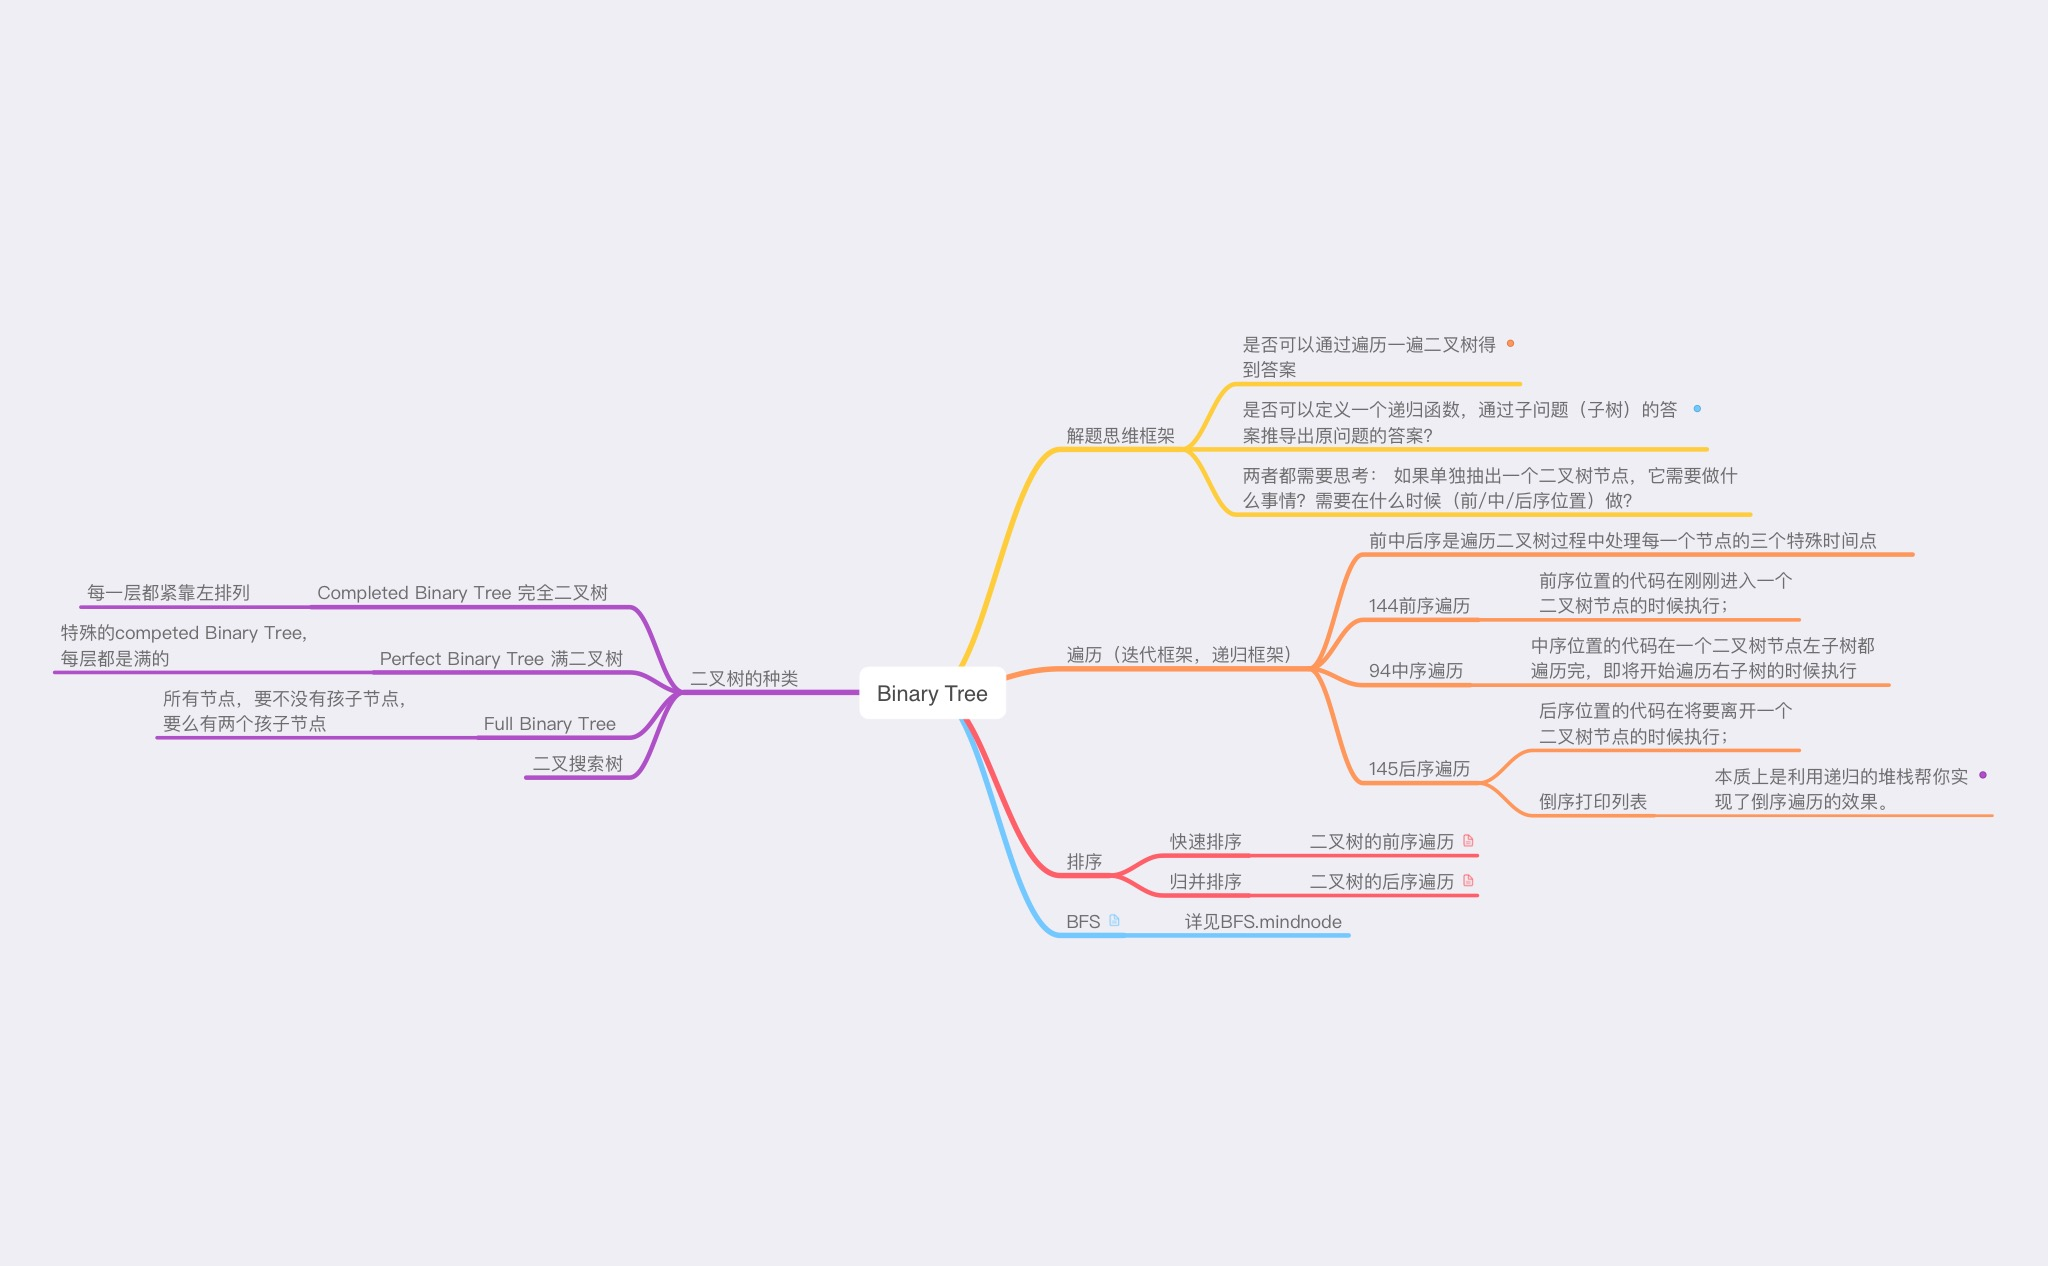
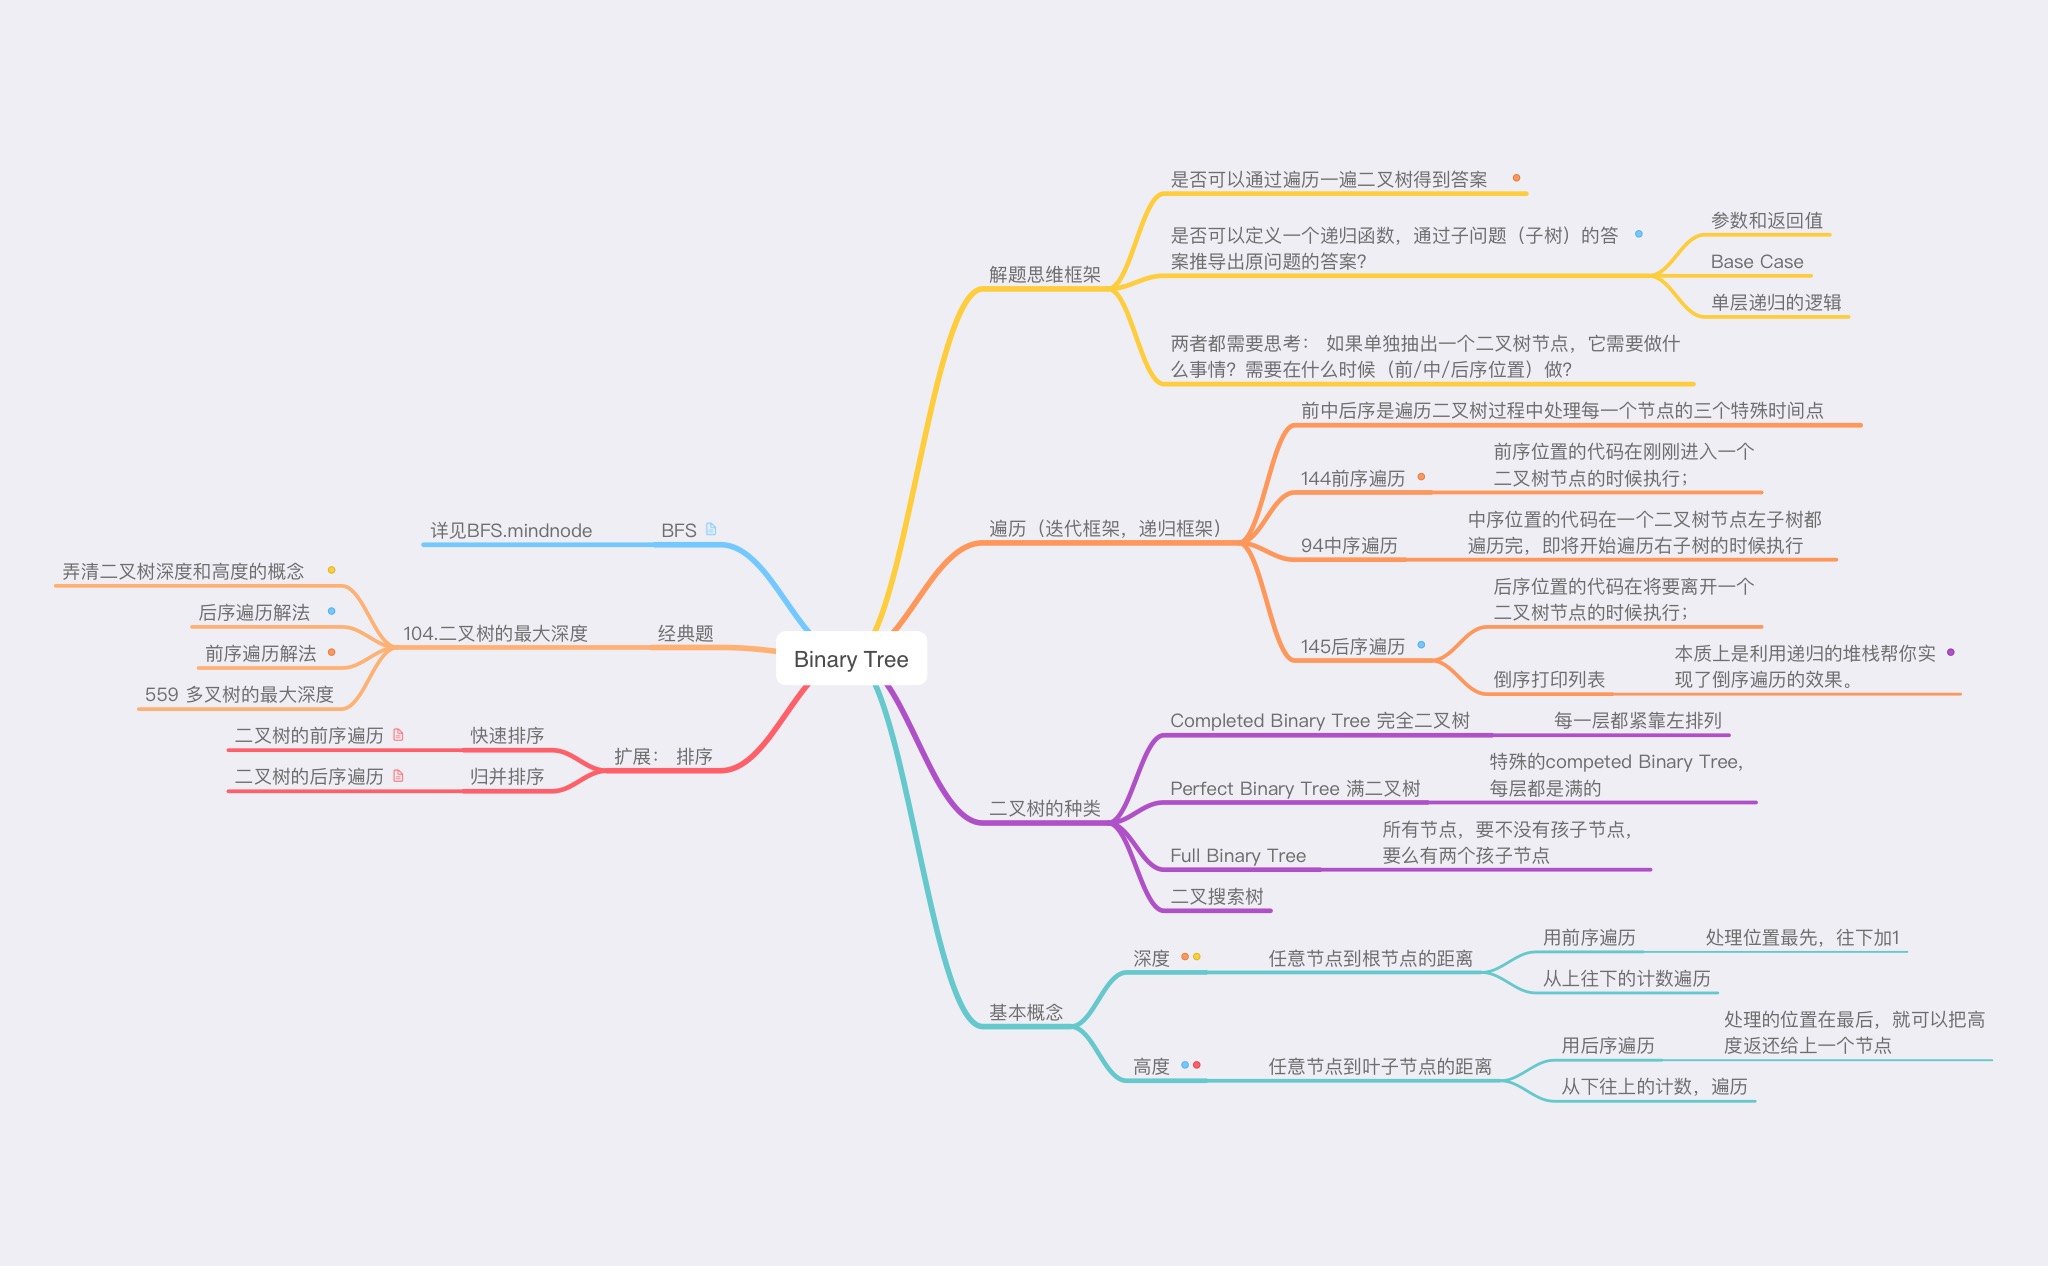
tree: height and depth

diff --git a/Questions/Binary Tree/[104] Maximum Depth of Binary Tree.md b/Questions/Binary Tree/[104] Maximum Depth of Binary Tree.md
@@ -1,0 +1,111 @@
+# [Maximum Depth of Binary Tree - LeetCode](https://leetcode.com/problems/maximum-depth-of-binary-tree/description/)
+## Tag
+PreOrder, PostOrder, BFS, BinaryTree, iteration, recursion
+## 审题（关键词） 
+Binary Tree, maximum depth
+
+## 初始思路  
+遍历二叉树，且返回最大路径，典型二叉树遍历题（不需要访问）
+套用二叉树遍历框架：
+1. 后序遍历解法：
+	1. 递归思路
+	2. 求高度（任意节点到叶子节点的距离）采用从下往上的计数，后序遍历
+	4. 什么时候返回，要知道depth，它的子树都得访问，
+	5. 递归
+	6. 后序位置：计算最大值
+	7. 需要额外的参数吗？不需要，使用递归的时候没有额外的对子问题的影响。
+2. 前序遍历解法：
+	1. 遍历思路
+	2. 求深度（任意节点到根节点的距离）采用从上往下的计数遍历， 前序遍历
+	3. 前序位置： 每个节点计算当前深度，需要记录这个高度并给子节点，且需要回溯维护。
+	4. 前序位置：当前节点更新最大值。
+	5. 子节点计算深度
+
+扩展使用bfs解法。
+
+
+## 考点  
+学习二叉树的两种解题思路, 分清树的高度和深度的不同。
+
+## 解法  
+> 遍历思路，一层层往下遍历，（前序遍历求深度）用depth维护高度，res维护答案。注意要回溯高度
+```java
+class Solution {
+    /**
+      * 递归法(求深度法)
+    */
+    //定义最大深度, 使用全局变量记录答案。
+    int maxnum = 0;
+
+    public int maxDepth(TreeNode root) {
+        // 前序遍历解法, 所有节点到根节点的距离，需要额外参数记录当前距离
+        ans(root,0);
+        return maxnum;
+    }
+    
+    //递归求解最大深度
+    void ans(TreeNode tr,int tmp){
+        // base case
+        if(tr==null) return;
+        // 处理：前序位置
+        tmp++;
+        maxnum = maxnum<tmp?tmp:maxnum;
+        // 访问
+        ans(tr.left,tmp);
+        ans(tr.right,tmp);
+        // 回溯：
+        tmp--;
+    }
+      
+}
+```
+> 递归思路，问题拆解思路：先获知左右的节点深度，再跟新自己（后序遍历求高度）
+
+```java
+class Solution {
+    public int maxDepth(TreeNode root) {
+        // base case:
+        if (root == null) {
+            return 0;
+        }
+
+        // 访问
+        int left = maxDepth(root.left);
+        int right = maxDepth(root.right);
+        // 处理：后序位置
+        return Math.max(left, right) + 1;
+    }
+}
+```
+> BFS, 一层层遍历，记录层数。
+
+```java
+class Solution {
+    public int maxDepth(TreeNode root) {
+        // BFS Solution: get the depth
+        // use Queue
+        Queue<TreeNode> queue = new LinkedList<>();
+        if (root != null) {
+            queue.offer(root);
+        }
+        int level = 0;
+        while (!queue.isEmpty()) {
+            int size = queue.size();  
+            // iterate each level
+            for (int i = 0; i < size; i++) {
+                TreeNode curr = queue.poll();
+                // 访问：
+                if (curr.left != null) queue.add(curr.left);
+                if (curr.right != null) queue.add(curr.right);
+            }
+            // 处理：
+            level++;
+
+        }
+
+        return level;
+
+    }
+}
+```
+

diff --git a/Questions/Binary Tree/[559] Maximum Depth of N-ary Tree.md b/Questions/Binary Tree/[559] Maximum Depth of N-ary Tree.md
@@ -1,0 +1,98 @@
+# [Maximum Depth of N-ary Tree - LeetCode](https://leetcode.com/problems/maximum-depth-of-n-ary-tree/description/) 
+## Tag
+PreOrder, PostOrder, BFS, BinaryTree, iteration, recursion
+## 审题（关键词） 
+N-ary Tree, maximum depth
+## 初始思路  
+同104题一致， 仅仅是访问形式的不同。
+两个考点：  
+详见： [104 Maximum Depth of Binary Tree](./%5B104%5D%20Maximum%20Depth%20of%20Binary%20Tree.md)
+1. 遍历思路：求深度
+2. 递归思路：求高度  
+
+## 考点  
+学习二叉树的两种解题思路, 分清树的高度和深度的不同。
+
+## 解法  
+ > 遍历思路，一层层往下遍历，（前序遍历求深度）用depth维护高度，res维护答案。注意要回溯高度
+```java
+/*
+// Definition for a Node.
+class Node {
+    public int val;
+    public List<Node> children;
+
+    public Node() {}
+
+    public Node(int _val) {
+        val = _val;
+    }
+
+    public Node(int _val, List<Node> _children) {
+        val = _val;
+        children = _children;
+    }
+};
+*/
+
+class Solution {
+    /**
+    遍历思路， 求深度，使用前序遍历
+     */
+    // global value to record the maximum depth
+    int max = 0;
+
+    // Do we need extra params? Yes, need to record depth of each node
+    public int maxDepth(Node root) {
+        traverse(root, 0);
+        return max;
+    }
+
+    void traverse(Node node, int depth) {
+        if (node == null) {
+            return;
+        }
+        // 处理：高度加1，比较最大值
+        depth++;
+        max = Math.max(depth, max);
+
+        // 访问：处理每一个子节点。
+        for (int i = 0; i < node.children.size(); i++) {
+            traverse(node.children.get(i), depth);
+        }
+
+        // 后序位置回溯，维护高度。
+        depth--;
+    }
+}
+```
+> 递归思路，问题拆解思路：先获知所有子节点深度，再跟新自己（后序遍历求高度）
+```java
+
+class Solution {
+    /**
+    递归思路：求高度，使用后序遍历
+     */
+    // global value to record the maximum depth
+    int max = 0;
+
+    // Do we need extra params? No, will update and process in the postOrder position, return the value
+    public int maxDepth(Node root) {
+        // bc: 
+        if (root == null) {
+            return 0;
+        }
+        int subMax = 0;
+
+        // recursion: 
+        for (int i = 0; i < root.children.size(); i++) {
+            subMax = Math.max(subMax, maxDepth(root.children.get(i)));
+        }
+
+        // 处理：return the height of current node
+        return subMax + 1;
+    }
+}
+```
+
+## 难点
